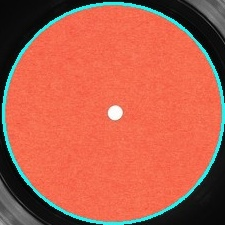
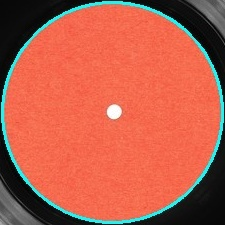
download image on click@

diff --git a/templates/result.html b/templates/result.html
@@ -6,7 +6,9 @@
   <body>
     <h1>Choose the Correct Image to Download</h1>
     {% for file in files %}
+      <a href="{{ url_for('download', filename=file)}}">
       <img src="{{ url_for('upload', filename=file) }}">
+      </a>
     {% endfor %}
   </body>
 </html>

diff --git a/app.py b/app.py
@@ -1,4 +1,4 @@
-from flask import Flask, render_template, request, redirect, url_for, abort, send_from_directory
+from flask import Flask, render_template, request, redirect, url_for, abort, send_from_directory, send_file
 import os
 import cv2
 import numpy as np
@@ -12,7 +12,7 @@ app.config['UPLOAD_PATH'] = 'uploads'
 
 @app.route('/')
 def index():
-    files = os.listdir(app.config['UPLOAD_PATH'])
+    #files = os.listdir(app.config['UPLOAD_PATH'])
     return render_template('index.html')
 
 @app.route('/', methods=['POST'])
@@ -35,7 +35,13 @@ def result():
 
 @app.route('/uploads/<filename>')
 def upload(filename):
-    return send_from_directory(app.config['UPLOAD_PATH'], filename)
+    return send_from_directory(app.config['UPLOAD_PATH'], filename, as_attachment=True)
+
+@app.route('/downloads/<filename>')
+def download(filename):
+    print('MY HEAD')
+    print(os.path.join(app.config['UPLOAD_PATH'],filename))
+    return send_file(os.path.join(app.config['UPLOAD_PATH'],filename), filename, as_attachment=True)
 
 def detector(img_path):
     print(img_path)
@@ -100,7 +106,7 @@ def detector(img_path):
                         tempx=x
                         tempy=y
                         #cv2.circle(imgcolor, (x,y), r, color=(255,255,0), thickness = 2)
-                        crop_img = imgcolor[y-r-1:y+r, x-r-1:x+r]
+                        crop_img = imgcolor[y-r:y+r+1, x-r:x+r+1]
                         path = './uploads'
                         cv2.imwrite(os.path.join(path, 'cropped' + str(x) + 'by' + str(y) + '.jpg'), crop_img)
                         circles.append((x,y,r))
